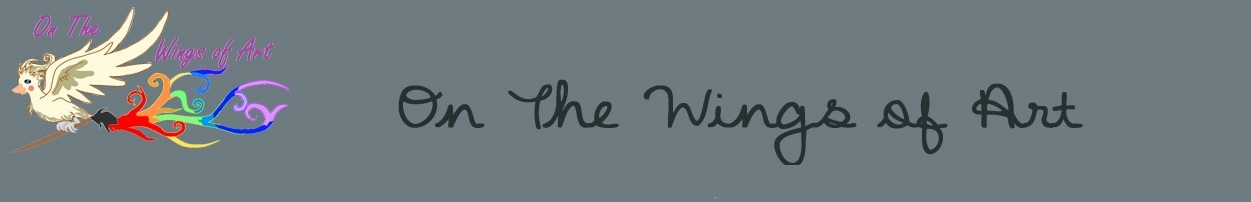
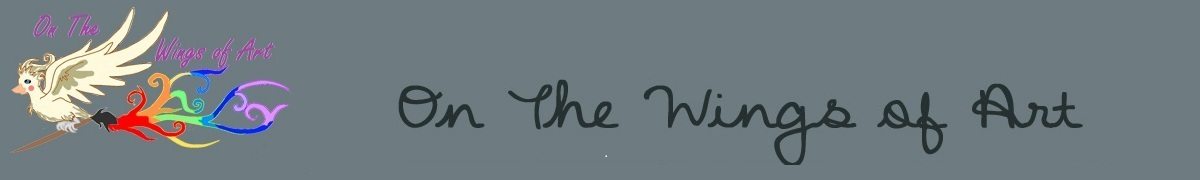
attemped to make topBar image statically sized

Changed region(s): [[0.3083, 0.3889, 0.925, 0.9167], [0.0, 0.0278, 0.2467, 0.8333]]

diff --git a/ext_version/js/mesacart/app/view/Viewport.js b/ext_version/js/mesacart/app/view/Viewport.js
@@ -22,7 +22,7 @@ Ext.define('MC.view.Viewport',{
 			items:[
 				{xtype:'TopBar',
 					border:true,
-					flex:2,
+					height:180,
 					//width:'100%',
 					html:'toolbar/logo'
 				},
